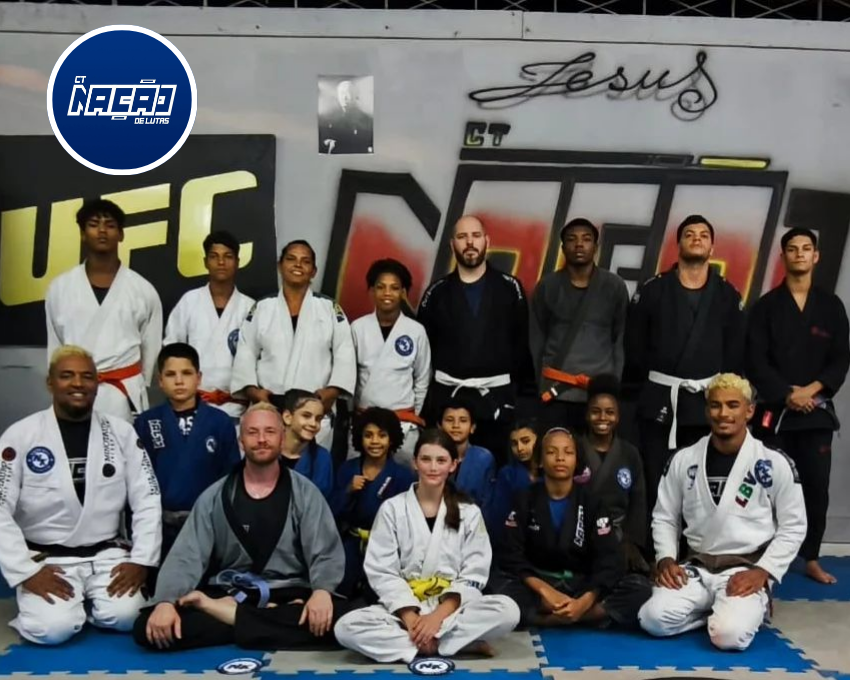
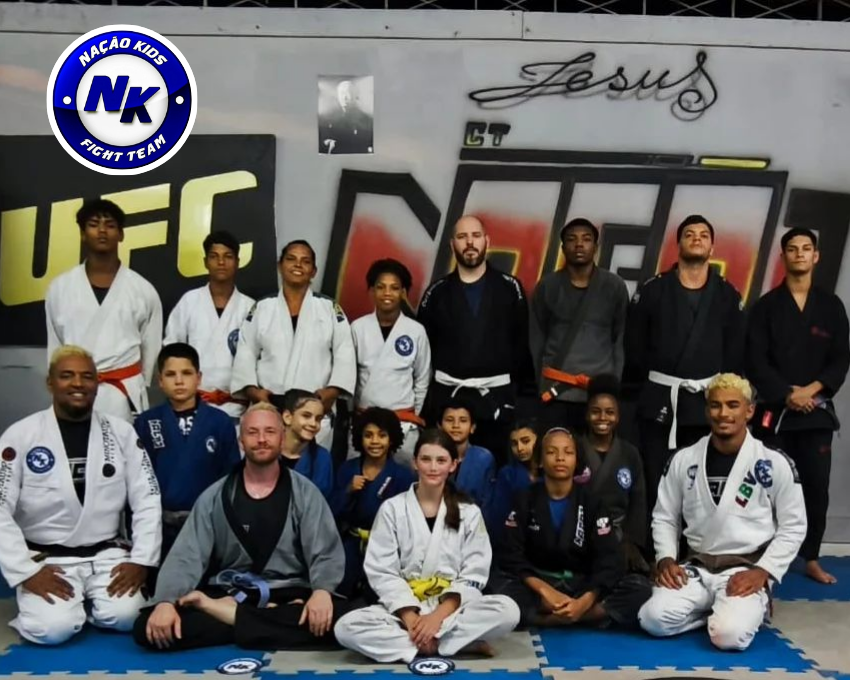
projetos + parceiro novo

Changed region(s): [[0.0612, 0.0309, 0.2447, 0.2471]]

diff --git a/projetos.html b/projetos.html
@@ -36,33 +36,36 @@
     
     <div>
         <h2 class="w-[92%] text-center md:text-center md:w-[70%] mx-auto font-bold text-4xl mt-10 text-gray-800">Conheça nossos projetos</h2>
-        <h2 class="w-[92%] text-center md:text-left md:w-[70%] mx-auto font-bold text-3xl mt-10 text-gray-800">CT Nação de Lutas<hr class="w-16 mt-5 border-[1px] rounded-lg border-gray-600 border-solid mx-auto md:mx-0"></h2>
+        <h2 class="w-[92%] text-center md:text-left md:w-[70%] mx-auto font-bold text-3xl mt-10 text-gray-800">Instituto Nação Kids<hr class="w-16 mt-5 border-[1px] rounded-lg border-gray-600 border-solid mx-auto md:mx-0"></h2>
         <div class="justify-between items-center gap-2 w-[70%] mx-auto mt-7 mb-10 hidden md:flex" id="">
             <img src="img/projetos/nacao.png" class="w-[40%] rounded-md">
-            <p class="ml-5 0w-full self-start">Lorem ipsum dolor sit amet, consectetur adipiscing elit. Sed do eiusmod tempor incididunt ut labore et dolore magna aliqua. 
-                Ut enim ad minim veniam, quis nostrud exercitation ullamco laboris nisi ut aliquip ex ea commodo consequat. Duis aute irure dolor in reprehenderit in voluptate 
-                velit esse cillum dolore eu fugiat nulla pariatur. Excepteur sint occaecat cupidatat non proident, sunt in culpa qui officia deserunt mollit anim id est laborum. 
-                Curabitur pretium tincidunt lacus. Nulla gravida orci a odio. Nullam varius, turpis et commodo pharetra, est eros bibendum elit, nec luctus magna felis 
-                sollicitudin mauris. Integer in mauris eu nibh euismod gravida. Duis ac tellus et risus vulputate vehicula. Donec lobortis risus a elit. Etiam tempor. 
-                Ut ullamcorper, ligula eu tempor congue, eros est euismod turpis, id tincidunt sapien risus a quam.
+            <p class="ml-5 0w-full self-start">O Instituto Nação Kids é um projeto social de artes marciais não governamental que atende crianças a partir de 
+                03 anos, jovens e adultos de todas as idades. Sua missão é transformar vidas através do esporte, formando cidadãos dentro e fora do tatame. 
+                Os valores do instituto incluem gratidão, disciplina, trabalho em equipe, responsabilidade, respeito e alimentação saudável.
+                <br><br>
+                Com o patrocínio da Green Fiber, os atletas multicampeões nacionais e internacionais Enzo e Rhuam Simões poderão continuar a se destacar em suas 
+                carreiras, inspirando os participantes do Instituto Nação Kids. Esta parceria reforça o compromisso da Green Fiber com a responsabilidade social 
+                e o desenvolvimento de jovens talentos, contribuindo para a continuidade e expansão das atividades do instituto, que oferece gratuitamente um 
+                ambiente saudável e motivador para crianças e jovens.
                 </p>
 
         </div>
         <div class="justify-between items-center gap-2 w-[70%] mx-auto mt-7 mb-10 md:hidden flex flex-col" id="">
             <img src="img/projetos/nacao.png" class="rounded-md">
-            <p class="md:ml-5 w-full self-start text-justify md:text-left">Lorem ipsum dolor sit amet, consectetur adipiscing elit. Sed do eiusmod tempor incididunt ut labore et dolore magna aliqua. 
-                Ut enim ad minim veniam, quis nostrud exercitation ullamco laboris nisi ut aliquip ex ea commodo consequat. Duis aute irure dolor in reprehenderit in voluptate 
-                velit esse cillum dolore eu fugiat nulla pariatur. Excepteur sint occaecat cupidatat non proident, sunt in culpa qui officia deserunt mollit anim id est laborum. 
-                Curabitur pretium tincidunt lacus. Nulla gravida orci a odio. Nullam varius, turpis et commodo pharetra, est eros bibendum elit, nec luctus magna felis 
-                sollicitudin mauris. Integer in mauris eu nibh euismod gravida. Duis ac tellus et risus vulputate vehicula. Donec lobortis risus a elit. Etiam tempor. 
-                Ut ullamcorper, ligula eu tempor congue, eros est euismod turpis, id tincidunt sapien risus a quam.
-                </p>
+            <p class="md:ml-5 w-full self-start text-justify md:text-left">O Instituto Nação Kids é um projeto social de artes marciais não governamental que atende crianças a partir de 
+                03 anos, jovens e adultos de todas as idades. Sua missão é transformar vidas através do esporte, formando cidadãos dentro e fora do tatame. 
+                Os valores do instituto incluem gratidão, disciplina, trabalho em equipe, responsabilidade, respeito e alimentação saudável.
+                <br><br>
+                Com o patrocínio da Green Fiber, os atletas multicampeões nacionais e internacionais Enzo e Rhuam Simões poderão continuar a se destacar em suas 
+                carreiras, inspirando os participantes do Instituto Nação Kids. Esta parceria reforça o compromisso da Green Fiber com a responsabilidade social 
+                e o desenvolvimento de jovens talentos, contribuindo para a continuidade e expansão das atividades do instituto, que oferece gratuitamente um 
+                ambiente saudável e motivador para crianças e jovens.
 
         </div>
 
         <div class="w-full flex justify-center items-center">
             <a 
-            href="https://www.instagram.com/ctnacaodelutas/" 
+            href="https://www.instagram.com/institutonacaokids/" 
             target="_blank"  class="z-50 w-[80%] md:w-[25%] hover:bg-green-500 p-3 my-2 bg-green-700 rounded-lg text-white text-center font-bold">SAIBA MAIS</a>
         </div>
 

diff --git a/clube-de-vantagens.html b/clube-de-vantagens.html
@@ -170,6 +170,22 @@
         class="w-full my-1 hover:bg-green-500 px-3 py-3 bg-green-600 rounded-lg text-white text-center font-bold shadow-xl"
         >CONHECER PARCEIRO</a>
             </div>
+            <div class="w-60 h-fit bg-gray-200 flex justify-center items-center rounded-xl flex-col p-2">
+                <img 
+                src="img/logos_clube/proconcept.png" 
+                alt="" 
+                class="hover:scale-105 cursor-pointer duration-300 transition-ease w-20"
+                >
+                <h2 class="text-center w-full font-bold my-2">ProConcept</h2>                            
+                <h3 class="text-left w-full p-1 bg-gray-300 rounded-lg my-1 text-sm">Estúdio de Treinamento Físico e Funcional</h3>
+                <p class="text-left w-full p-1 bg-gray-300 rounded-lg my-1 text-sm font-semibold">10% de Desconto</p>
+                <p class="text-left w-full p-1 bg-gray-300 rounded-lg my-1 text-sm">1º mês nos planos PERSONAL e VIP + isenção de matrícula.</p>
+                <a
+        href="https://www.instagram.com/oticasdfonseca/" 
+        target="_blank"  
+        class="w-full my-1 hover:bg-green-500 px-3 py-3 bg-green-600 rounded-lg text-white text-center font-bold shadow-xl"
+        >CONHECER PARCEIRO</a>
+            </div>
         </div>
         
     </dialog>

diff --git a/resgate.html b/resgate.html
@@ -109,6 +109,8 @@
                 <li class="option flex p-2 hover:bg-gray-200 cursor-pointer rounded-md"><span class="option-txt">Le Petit Gourmet (5% OFF)</span></li>
                 <li class="option flex p-2 hover:bg-gray-200 cursor-pointer rounded-md"><span class="option-txt">Padaria Barcelos (10% OFF)</span></li>
                 <li class="option flex p-2 hover:bg-gray-200 cursor-pointer rounded-md"><span class="option-txt">Veterinária Vila Progresso (R$ 50,00)</span></li>
+                <li class="option flex p-2 hover:bg-gray-200 cursor-pointer rounded-md"><span class="option-txt">ProConcept (10% OFF)</span></li>
+
             </ul>
             <p id="errorOptions" class="hidden text-red-600 absolute text-xs mt-1 right-0">Escolha uma opção!</p>
         </div>

diff --git a/js/resgate.js b/js/resgate.js
@@ -194,6 +194,12 @@ btnResg.addEventListener('click',async () => {
     descricao = 'Consultas a R$50,00 todas as Quartas.'
     desconto = 'R$ 50,00'
     break
+
+    case "ProConcept (10% OFF)":
+    img = 'img/logos_clube/proconcept.png'
+    descricao = 'Planos PERSONAL e VIP - Desconto no primeiro mês e isenção da matrícula!'
+    desconto = '10% OFF'
+    break
   
     }
         
